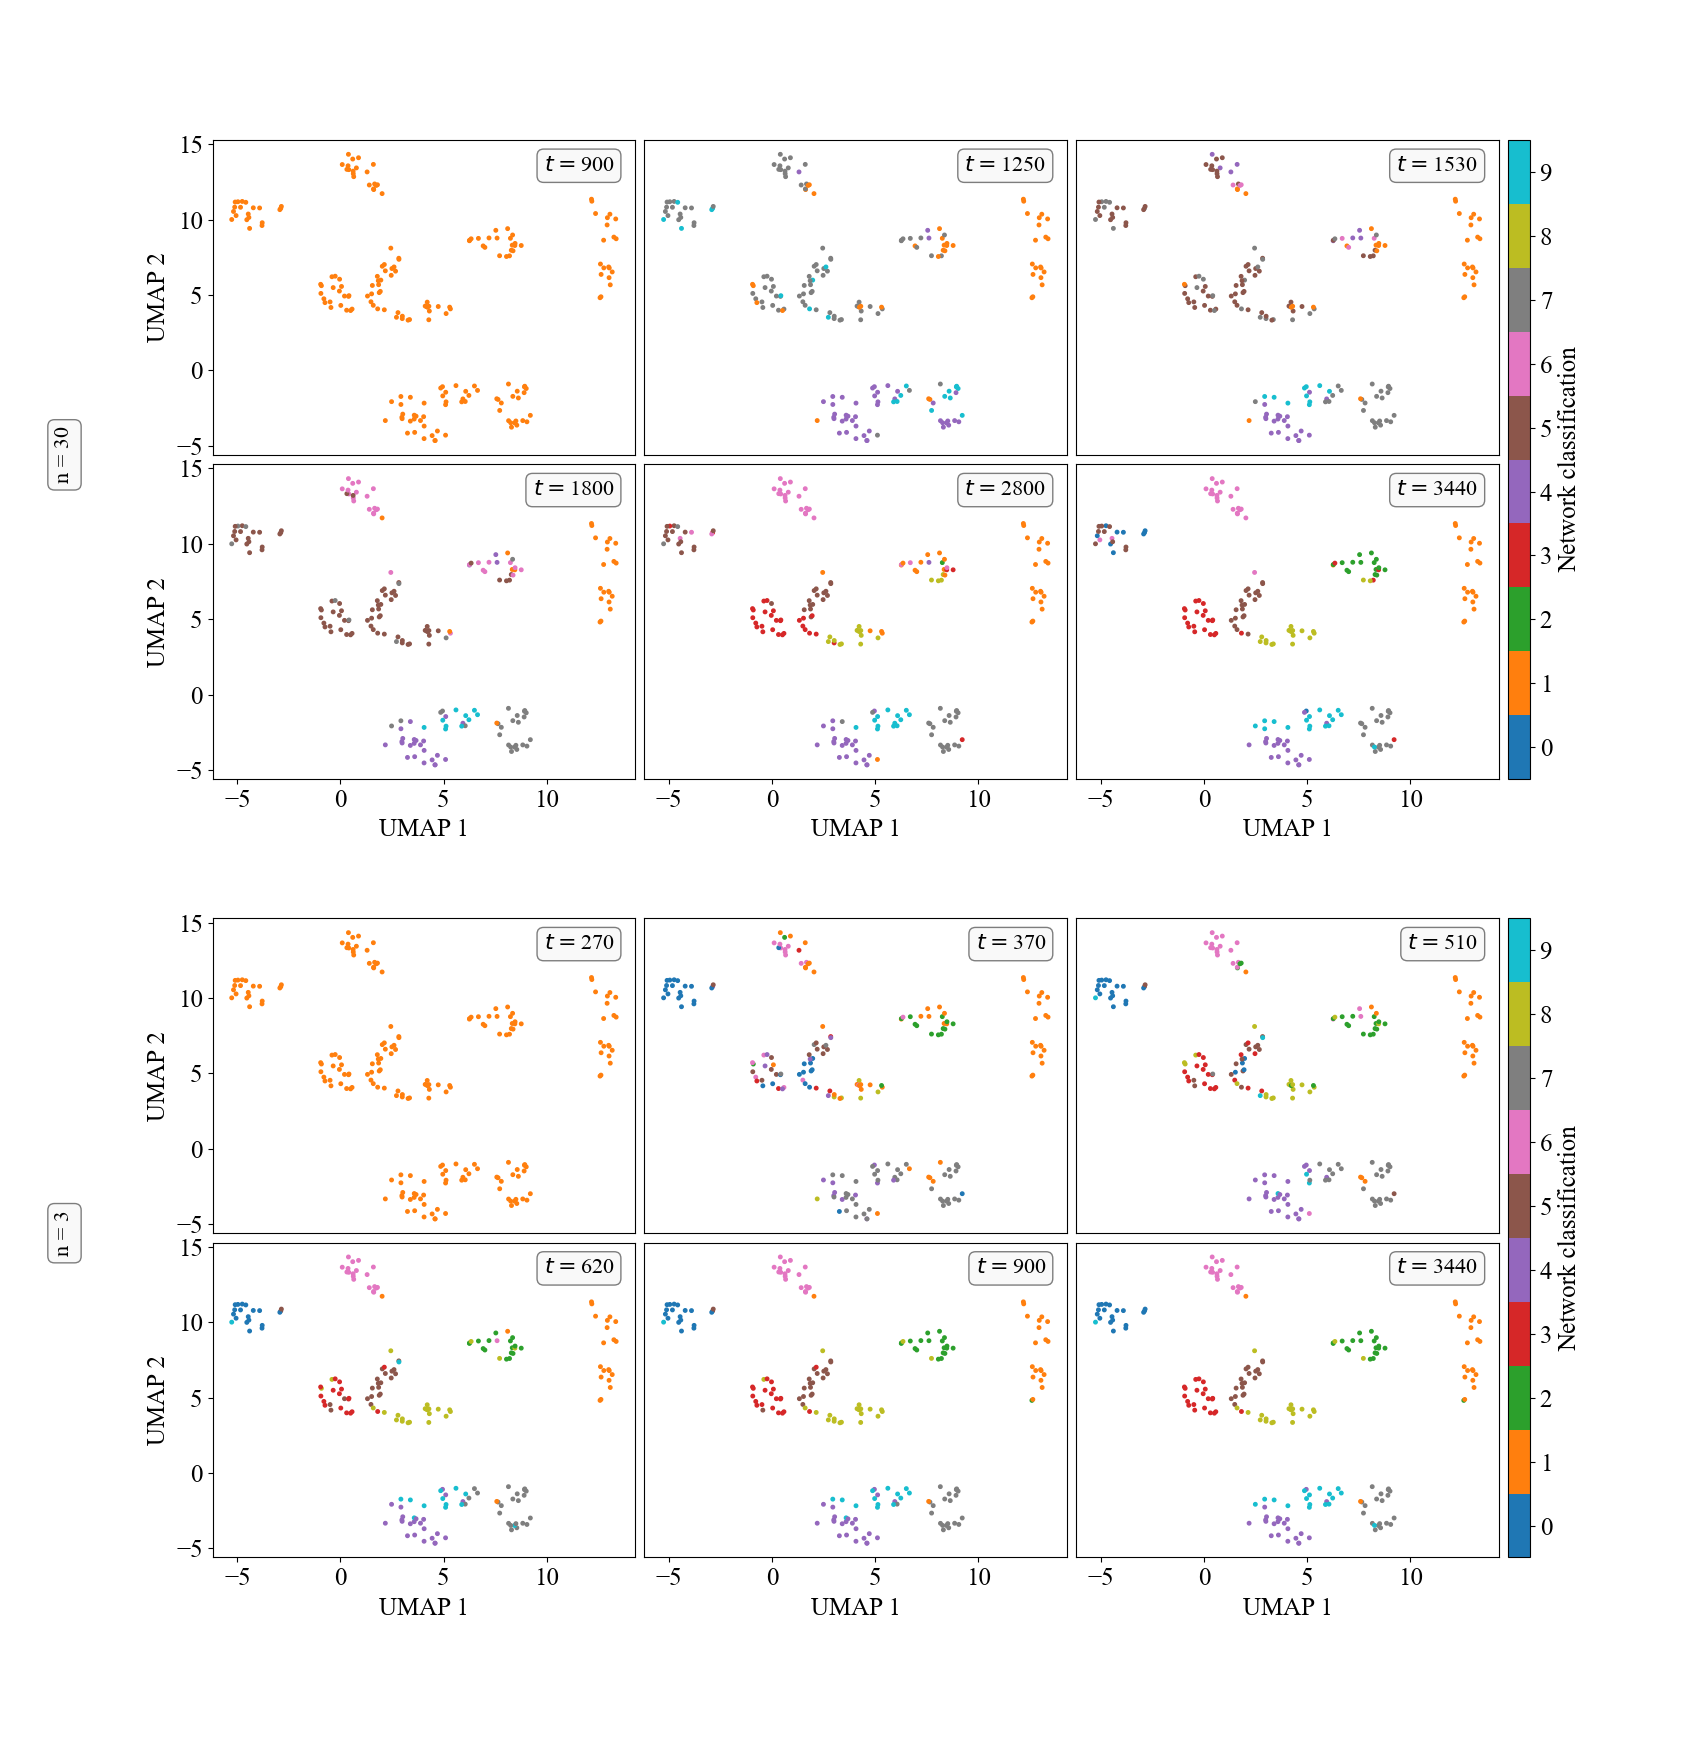
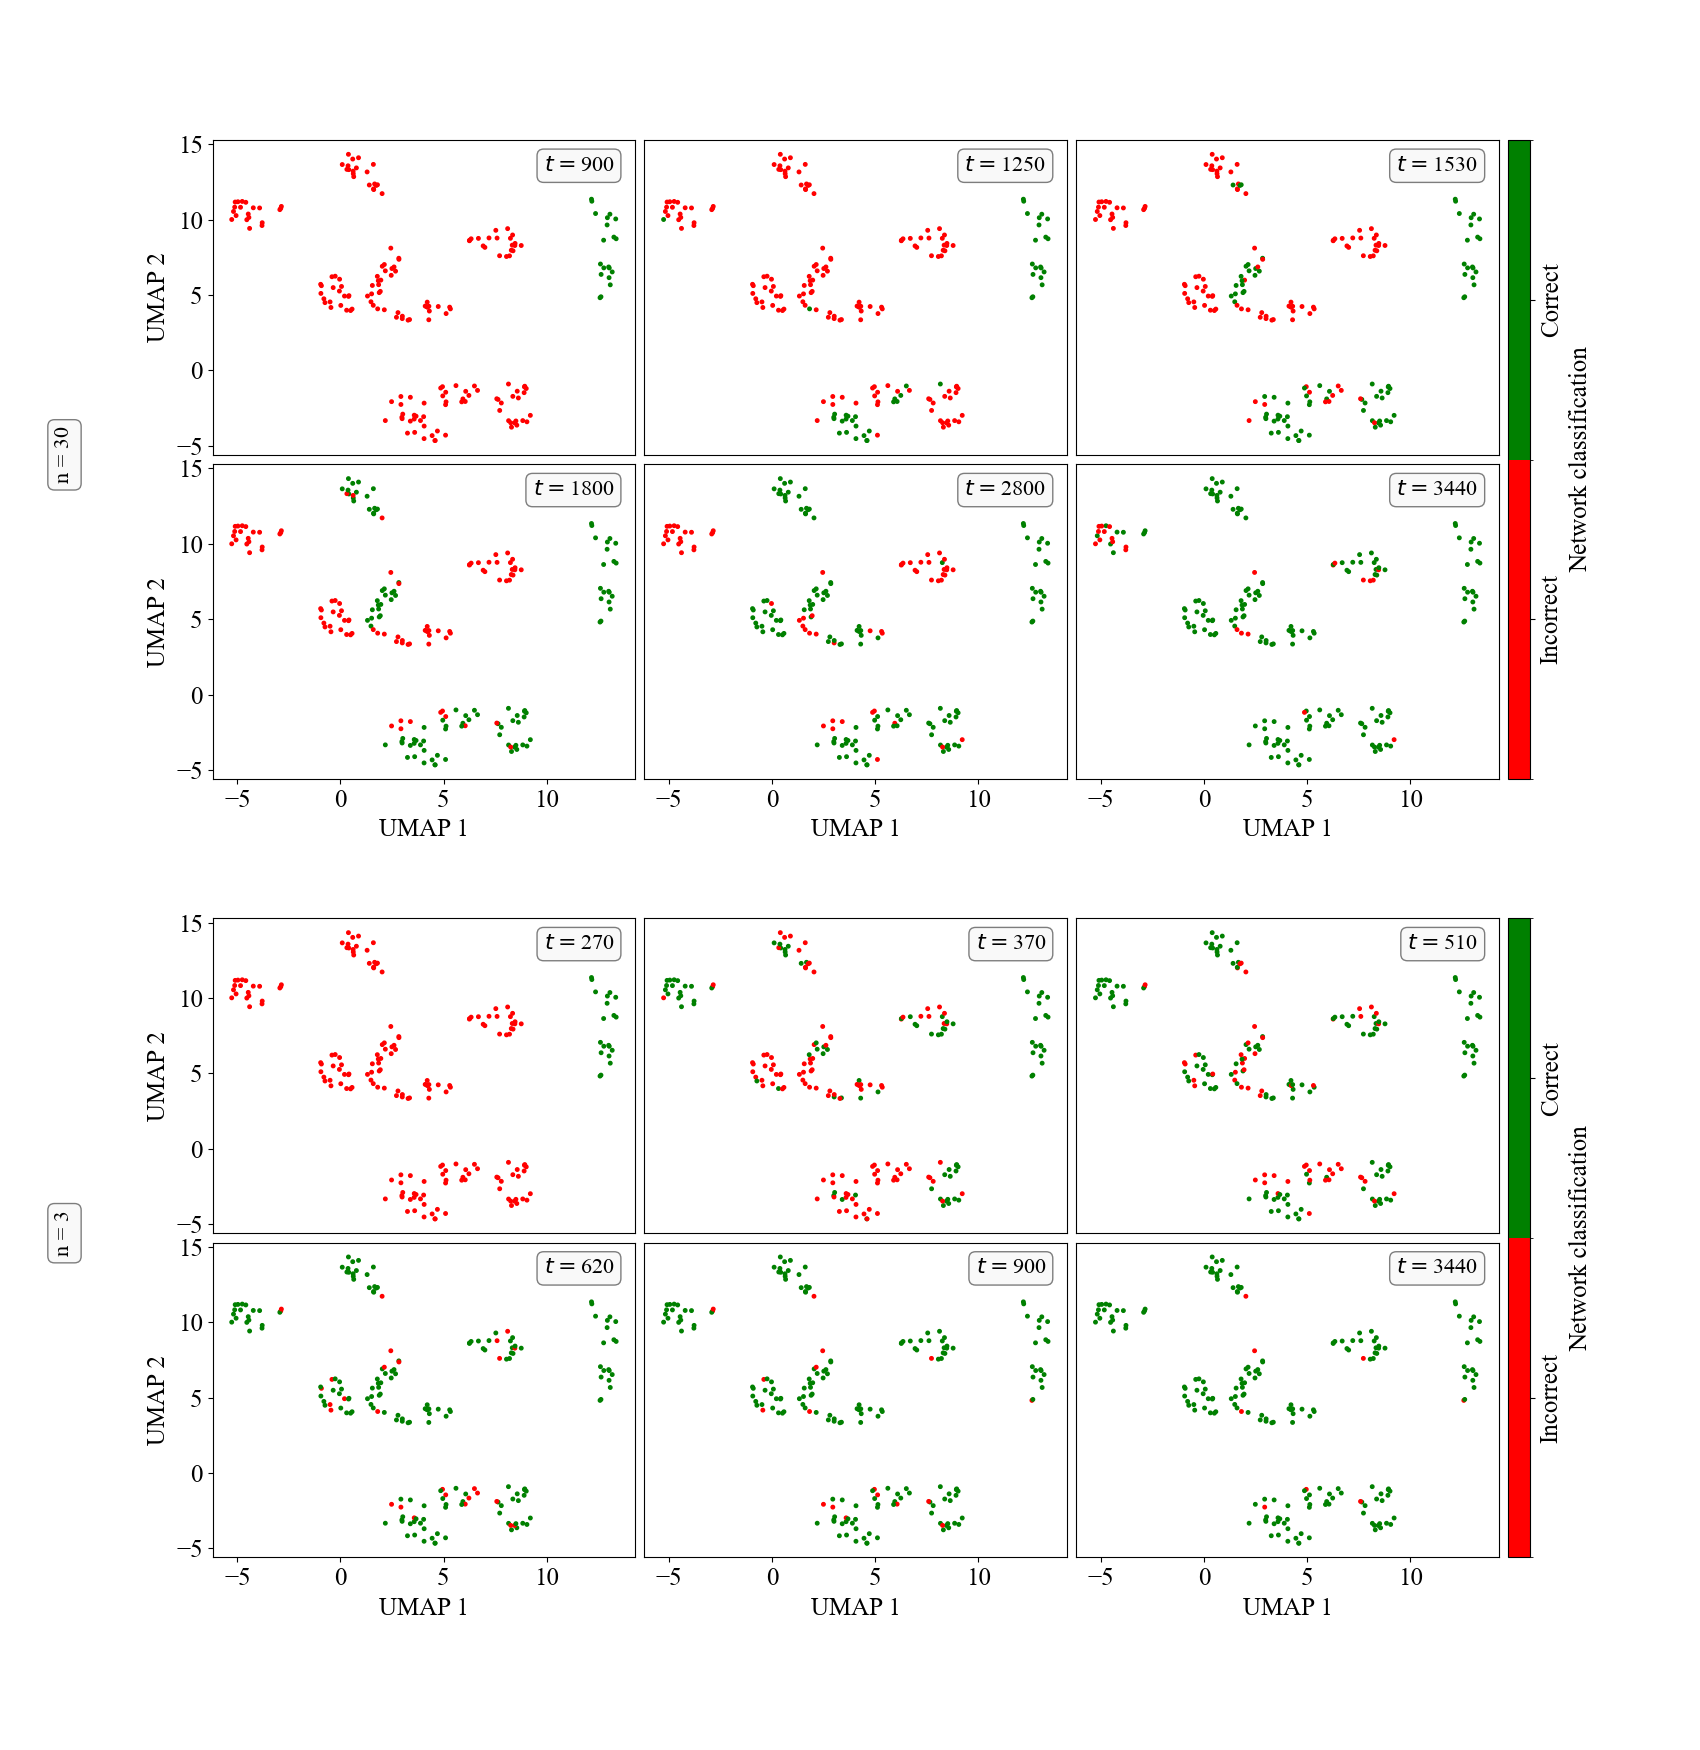
slight improvements on fig 1'

diff --git a/paper - figure 1/Figure_1_classification_plot.py b/paper - figure 1/Figure_1_classification_plot.py
@@ -48,6 +48,10 @@ def UMAP_plot(ax, n=30, temp=670, t_s=[20, 90, 125, 153, 180, 280, 344]):
     net = KrotovNet(M=M, nbMiniBatchs=1) # The rest will be filled in by the next line load-net
     net.load_net(saving_dir, epoch=0)   
       
+
+    # Set red and green cmap
+    rg_cmap = matplotlib.colors.ListedColormap(['red', 'green'])
+    rg_norm = matplotlib.colors.BoundaryNorm([0, 0.5, 1], rg_cmap.N)
     
     for t_i in range(0, len(t_s)-1):
 
@@ -56,9 +60,9 @@ def UMAP_plot(ax, n=30, temp=670, t_s=[20, 90, 125, 153, 180, 280, 344]):
         
         keys = np.zeros((M))
         for i in range(M):
-            keys[i] = np.argmax(net.compute(data_T[i]))
+            keys[i] = np.argmax(net.compute(data_T[i]))==(i//20) # 20 examples per class
             
-        im = ax[t_i].scatter(embedding[:, 0], embedding[:, 1], c=keys, cmap="tab10", s=25, marker=".", vmin=0, vmax=10) # Plotting the UMAP training data
+        im = ax[t_i].scatter(embedding[:, 0], embedding[:, 1], c=keys, cmap=rg_cmap, s=25, marker=".", norm=rg_norm) # Plotting the UMAP training data
 
         
         # Time stamps / Cosmetics
@@ -170,6 +174,9 @@ DDDDDDDDDDDDDDDDDDDDDDDDDDDDEEEEEEEEEEEEEEEEEEEEEEEEEEEEFFFFFFFFFFFFFFFFFFFFFFFF
 
 """)
 
+# Set red and green cmap
+rg_cmap = matplotlib.colors.ListedColormap(['red', 'green'])
+rg_norm = matplotlib.colors.BoundaryNorm([0, 0.5, 1], rg_cmap.N)
 
 ax_UMAPs_top = [axs['1'], axs['2'], axs['3'], axs['4'], axs['5'], axs['6']]
 ax_UMAPs_top = np.asarray(ax_UMAPs_top)          
@@ -181,18 +188,16 @@ UMAP_plot(ax_UMAPs_bot, n=3, t_s=[20, 27, 37, 51, 62, 90, 344])
 
 
 ax_cb_UMAP_top = axs['0']
-tab10_cmap = matplotlib.cm.tab10
-tab10_norm = matplotlib.colors.Normalize(vmin=0, vmax=10)
-cb_UMAP_top = matplotlib.colorbar.ColorbarBase(ax_cb_UMAP_top, cmap=tab10_cmap, norm=tab10_norm, orientation='vertical')
-cb_UMAP_top.set_ticks(np.arange(0, 10, 1) + 0.5) # Finally found how to center these things 
-cb_UMAP_top.set_ticklabels(np.arange(0, 10, 1))
+cb_UMAP_top = matplotlib.colorbar.ColorbarBase(ax_cb_UMAP_top, cmap=rg_cmap, norm=rg_norm, orientation='vertical')
+cb_UMAP_top.set_ticks([0.25, 0.75]) # Finally found how to center these things 
+cb_UMAP_top.set_ticklabels(["Incorrect", "Correct"], rotation=90, va='center')
 cb_UMAP_top.set_label("Network classification")
 
 
 ax_cb_UMAP_bot = axs['X']
-cb_UMAP_bot = matplotlib.colorbar.ColorbarBase(ax_cb_UMAP_bot, cmap=tab10_cmap, norm=tab10_norm, orientation='vertical')
-cb_UMAP_bot.set_ticks(np.arange(0, 10, 1) + 0.5) 
-cb_UMAP_bot.set_ticklabels(np.arange(0, 10, 1))
+cb_UMAP_bot = matplotlib.colorbar.ColorbarBase(ax_cb_UMAP_bot, cmap=rg_cmap, norm=rg_norm, orientation='vertical')
+cb_UMAP_bot.set_ticks([0.25, 0.75]) # Finally found how to center these things 
+cb_UMAP_bot.set_ticklabels(["Incorrect", "Correct"], rotation=90, va='center')
 cb_UMAP_bot.set_label("Network classification")
 
 ax_UMAPs_top[0].text(-0.35, 0.0, "n = 30", transform=ax_UMAPs_top[0].transAxes, fontsize=16, verticalalignment='center', ha='center', bbox=props, rotation=90)
